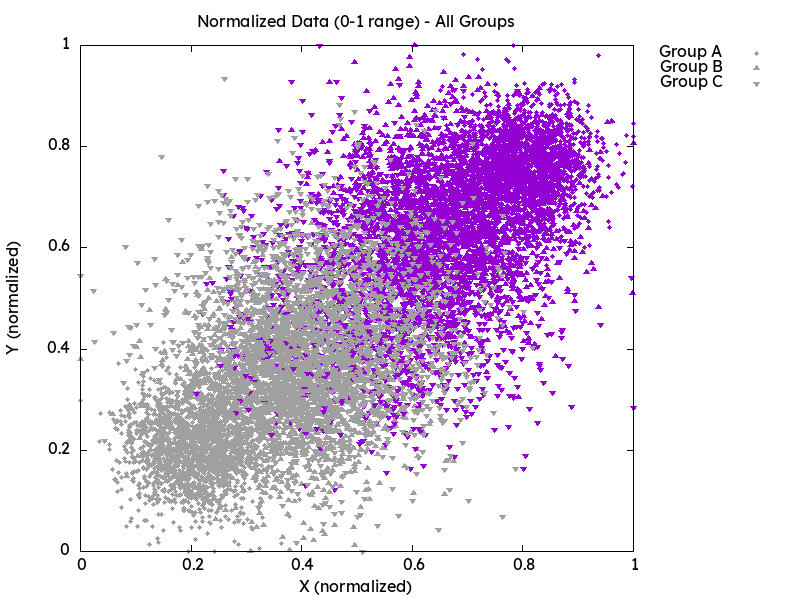
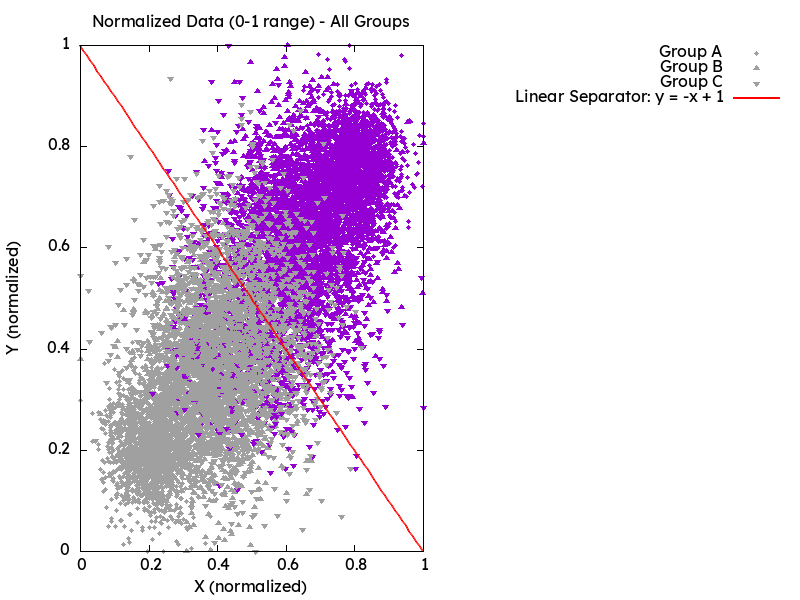
feat: enhance README and add confusion matrix analysis results

diff --git a/README.md b/README.md
@@ -1,5 +1,7 @@
 # Data Processing & Visualization
 
+AI project implementing linear classifiers with confusion matrix analysis.
+
 Uses Nix for development environment.
 
 ## Setup
@@ -14,16 +16,41 @@ nix develop
 ## File Structure
 ```
 Data/
-├── groupA.txt, groupB.txt, groupC.txt  # Raw CSV data
-└── normalized/                         # Normalized output
+├── groupA.txt, groupB.txt, groupC.txt          # Raw CSV data (classes 0,1)
+└── normalized/                                 # Normalized output (0-1 range)
 scripts/
-├── normalize.go                        # Data normalization
-└── plot.fish                           # Plot generation
-plots/                                  # Generated images
-└── normalized/                         # Normalized data plots
-flake.nix                               # Nix development environment
+├── normalize.go                                # Data normalization
+├── confusion_matrix.go                         # Confusion matrix analysis
+├── plot.fish                                   # Data visualization
+└── plot_confusion.fish                         # Confusion matrix plots
+plots/                                          # Generated images
+├── original_data.png
+├── groupA.png, groupB.png, groupC.png
+└── normalized/                                 # Normalized data plots
+    ├── normalized_data.png
+    ├── groupA.png, groupB.png, groupC.png
+    └── confusion/                              # Confusion matrix results
+        ├── analysis_results.txt                # Detailed metrics
+        ├── groupA.dat, groupB.dat, groupC.dat
+        └── groupA.png, groupB.png, groupC.png
+run_analysis.fish                               # Complete pipeline script
+flake.nix                                       # Nix development environment
 ```
 
-## Scripts
-- `go run go/normalize.go` - Normalizes data to 0-1 range
-- `fish scripts/plot.fish` - Generates plots with gnuplot
+## Usage
+
+### Quick Start (Full Pipeline)
+```bash
+./run_analysis.fish
+```
+
+### Individual Scripts
+- `go run scripts/normalize.go` - Normalizes data to 0-1 range
+- `go run scripts/confusion_matrix.go` - Generates confusion matrices for normalized data
+- `./scripts/plot.fish` - Generates scatter plots with linear separators
+- `./scripts/plot_confusion.fish` - Creates confusion matrix heatmaps
+
+## Classification
+- **Original data**: `y > -2.22*x + 107643` → Big Car (1), else Small Car (0)
+- **Normalized data**: `y > -x + 1` → Big Car (1), else Small Car (0)
+- **True Positive**: Correctly identified big cars (class 1)
